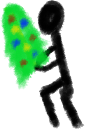
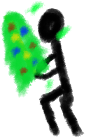
2.3.5

diff --git a/HellChristmasNightmare/index.html b/HellChristmasNightmare/index.html
@@ -33,13 +33,19 @@
     function loadCharacters(){const unlocked=[1];try{const progress=JSON.parse(localStorage.getItem("sixtySevenProgress")||"{}");for(const [character,status] of Object.entries(progress.characters||{}))if(status=== "UNLOCKED")unlocked.push(Number(character))}catch(error){console.warn("Saved characters could not be read.",error)}unlockedNumbers=getSelectedPlayableNumbers(unlocked);if(!unlockedNumbers.includes(number))number=unlockedNumbers[0]||1}
     function setNumber(character){if(!unlockedNumbers.includes(character))return;number=character;draw()}
     function drawHealth(){health.replaceChildren();for(let i=0;i<getStartingHealth();i++){const heart=document.createElement("img");heart.className="heart";heart.src="../Media/Images/Heart.png";heart.alt=i<playerHealth?"Heart":"Empty heart";heart.style.opacity=i<playerHealth?"1":".2";health.appendChild(heart)}}
-    function playerFrame(){if(number===-1)return keys.left||keys.right?"Walk":"Still";if(number===3)return !playerGrounded?(playerVelocityY>0?"Jump":"Fall"):keys.left||keys.right?"Walk":"Still";if(number===4)return !playerGrounded?(playerVelocityY>0?"Jump":"Sweep"):playerAttacking?"Sweep":keys.left||keys.right?"WalkF1":"Still";if(number===5)return keys.left||keys.right?"Walk":playerAttacking?"StillAlt":"Still";return !playerGrounded?(playerVelocityY>0?"Jump":"Fall"):playerAttacking?"SwingF1":keys.left||keys.right?"WalkF1":"Still"}
-    function draw(){player.src=playerSpritePath(number,playerFrame());player.style.left=`${playerX}px`;player.style.bottom=`${78+playerY}px`;player.style.transform=`translateX(-50%) scale(.56) scaleX(${-facing})`;boss.style.left=`${bossX}px`;boss.style.transform=`translateX(-50%) scaleX(${bossX<playerX?-1:1})`}
+    function playerFrame(){
+      if(number===-1)return playerAttacking?"Charge":keys.left||keys.right?"Walk":"Still";
+      if(number===3)return playerAttacking?"Swing":!playerGrounded?(playerVelocityY>0?"Jump":"Fall"):keys.left||keys.right?"Walk":"Still";
+      if(number===4)return playerAttacking?"Sweep":!playerGrounded?(playerVelocityY>0?"Jump":"Sweep"):keys.left||keys.right?"WalkF1":"Still";
+      if(number===5)return !playerGrounded?"Still":playerAttacking?"StillAlt":keys.left||keys.right?"Walk":"Still";
+      return playerAttacking?(number===1||number===2?"SwingF1":"Still") : (!playerGrounded?(playerVelocityY>0?"Jump":"Fall"):keys.left||keys.right?"WalkF1":"Still");
+    }
+    function draw(){player.src=playerSpritePath(number,playerFrame());player.style.left=`${playerX}px`;player.style.bottom=`${78+playerY}px`;player.style.transform=`translateX(-50%) scale(.56) scaleX(${-facing})`;boss.style.left=`${bossX}px`;boss.style.transform="translateX(-50%)"}
     function damagePlayer(){if(finished||damageCooldown>0)return;damageCooldown=.7;playerHealth--;drawHealth();if(playerHealth<=0){finished=true;message.textContent="DEFEATED"}}
     function unlockCharacter16(){try{const progress=JSON.parse(localStorage.getItem("sixtySevenProgress")||"{}");progress.characters=progress.characters||{};progress.characters["16"]="UNLOCKED";localStorage.setItem("sixtySevenProgress",JSON.stringify(progress))}catch(error){console.error("Could not unlock Character 16",error)}}
     function victory(){finished=true;unlockCharacter16();message.textContent="VICTORY — 16 UNLOCKED"}
     function beginAttack(){boss.src=asset+(attack==="PRESENT"?"Present.png":"DEMON.png");meteor.hidden=attack!=="METEOR";meteor.style.transform="translateX(-50%)";if(attack==="PRESENT")boss.style.transform="translateX(-50%) scale(.1) scaleX(1)";if(attack==="METEOR"){meteor.style.left=`${playerX}px`;meteor.style.bottom="520px"}}
-    function loop(now){const dt=Math.min((now-last)/1000,.04);last=now;if(!finished){const movement=(keys.right?1:0)-(keys.left?1:0);playerX+=movement*300*dt;if(movement)facing=movement;playerX=Math.max(22,Math.min(game.clientWidth-22,playerX));phaseTimer-=dt;damageCooldown=Math.max(0,damageCooldown-dt);attackCooldown=Math.max(0,attackCooldown-dt);if(!playerGrounded){playerVelocityY-=1900*dt;playerY+=playerVelocityY*dt;if(playerY<=0){playerY=0;playerVelocityY=0;playerGrounded=true}}if(phase=== "DELAY"&&phaseTimer<=0){phase="STILL";phaseTimer=5}else if(phase=== "STILL"&&phaseTimer<=0){attack=Math.random()<.5?"PRESENT":"METEOR";boss.src=asset+"DEMON.png";phase="READY";phaseTimer=1}else if(phase=== "READY"&&phaseTimer<=0){phase="ATTACK";phaseTimer=2;beginAttack()}else if(phase=== "ATTACK"&&phaseTimer<=0){meteor.hidden=true;attack="";boss.src=asset+"DEMON.png";boss.style.transform=`translateX(-50%) scaleX(${bossX<playerX?-1:1})`;phase="STILL";phaseTimer=5}if(phase=== "ATTACK"&&attack==="METEOR"){meteor.style.bottom=`${Math.max(78,parseFloat(meteor.style.bottom)-260*dt)}px`;if(parseFloat(meteor.style.bottom)<=78){meteor.hidden=true;if(Math.abs(parseFloat(meteor.style.left)-playerX)<70)damagePlayer()}}draw();requestAnimationFrame(loop)}}
+    function loop(now){const dt=Math.min((now-last)/1000,.04);last=now;if(!finished){const movement=(keys.right?1:0)-(keys.left?1:0);playerX+=movement*300*dt;if(movement)facing=movement;playerX=Math.max(22,Math.min(game.clientWidth-22,playerX));phaseTimer-=dt;damageCooldown=Math.max(0,damageCooldown-dt);attackCooldown=Math.max(0,attackCooldown-dt);if(!playerGrounded){playerVelocityY-=1900*dt;playerY+=playerVelocityY*dt;if(playerY<=0){playerY=0;playerVelocityY=0;playerGrounded=true}}if(phase=== "DELAY"&&phaseTimer<=0){phase="STILL";phaseTimer=5}else if(phase=== "STILL"&&phaseTimer<=0){attack=Math.random()<.5?"PRESENT":"METEOR";boss.src=asset+"DEMON.png";phase="READY";phaseTimer=1}else if(phase=== "READY"&&phaseTimer<=0){phase="ATTACK";phaseTimer=2;beginAttack()}else if(phase=== "ATTACK"&&phaseTimer<=0){meteor.hidden=true;attack="";boss.src=asset+"DEMON.png";boss.style.transform="translateX(-50%)";phase="STILL";phaseTimer=5}if(phase=== "ATTACK"&&attack==="METEOR"){meteor.style.bottom=`${Math.max(78,parseFloat(meteor.style.bottom)-260*dt)}px`;if(parseFloat(meteor.style.bottom)<=78){meteor.hidden=true;if(Math.abs(parseFloat(meteor.style.left)-playerX)<70)damagePlayer()}}draw();requestAnimationFrame(loop)}}
     addEventListener("keydown",e=>{const key=e.key.toLowerCase();if(key===keyBindings.left||key=== "arrowleft")keys.left=true;if(key===keyBindings.right||key=== "arrowright")keys.right=true;if((key===keyBindings.jump||key=== "arrowup")&&!e.repeat&&playerGrounded){playerVelocityY=798;playerGrounded=false}if(key===keyBindings.previous&&!e.repeat){const index=unlockedNumbers.indexOf(number);setNumber(unlockedNumbers[(index-1+unlockedNumbers.length)%unlockedNumbers.length])}if(key===keyBindings.next&&!e.repeat){const index=unlockedNumbers.indexOf(number);setNumber(unlockedNumbers[(index+1)%unlockedNumbers.length])}if(key===keyBindings.attack&&!e.repeat&&attackCooldown<=0){attackCooldown=.36;playerAttacking=true;if(Math.abs(playerX-bossX)<110){bossHealth=Math.max(0,bossHealth-1);if(bossHealth===0)victory()}setTimeout(()=>playerAttacking=false,180);draw()}});
     addEventListener("keyup",e=>{const key=e.key.toLowerCase();if(key===keyBindings.left||key==="arrowleft")keys.left=false;if(key===keyBindings.right||key==="arrowright")keys.right=false});
     loadCharacters();drawHealth();bossX=game.clientWidth-140;draw();requestAnimationFrame(loop);

diff --git a/CaseChristmasNightmare/index.html b/CaseChristmasNightmare/index.html
@@ -39,8 +39,14 @@
     function loadCharacters(){const unlocked=[1];try{const progress=JSON.parse(localStorage.getItem("sixtySevenProgress")||"{}");for(const [character,status] of Object.entries(progress.characters||{}))if(status=== "UNLOCKED")unlocked.push(Number(character))}catch(error){console.warn("Saved characters could not be read.",error)}unlockedNumbers=getSelectedPlayableNumbers(unlocked);if(!unlockedNumbers.includes(number))number=unlockedNumbers[0]||1}
     function setNumber(character){if(!unlockedNumbers.includes(character))return;number=character;draw()}
     function drawHealth(){health.replaceChildren();for(let i=0;i<getStartingHealth();i++){const heart=document.createElement("img");heart.className="heart";heart.src="../Media/Images/Heart.png";heart.alt=i<playerHealth?"Heart":"Empty heart";heart.style.opacity=i<playerHealth?"1":".2";health.appendChild(heart)}}
-    function playerFrame(){if(number===-1)return keys.left||keys.right?"Walk":"Still";if(number===3)return !playerGrounded?(playerVelocityY>0?"Jump":"Fall"):keys.left||keys.right?"Walk":"Still";if(number===4)return !playerGrounded?(playerVelocityY>0?"Jump":"Sweep"):playerAttacking?"Sweep":keys.left||keys.right?"WalkF1":"Still";if(number===5)return keys.left||keys.right?(playerVelocityY!==0?"Still":"Walk"):(playerAttacking?"StillAlt":"Still");return !playerGrounded?(playerVelocityY>0?"Jump":"Fall"):playerAttacking?(number===1?"SwingF1":"SwingF1"):keys.left||keys.right?"WalkF1":"Still"}
-    function draw(){player.src=playerSpritePath(number,playerFrame());player.style.left=`${playerX}px`;player.style.bottom=`${78+playerY}px`;player.style.transform=`translateX(-50%) scale(.56) scaleX(${-facing})`;boss.style.left=`${bossX}px`;boss.style.transform=`translateX(-50%) scaleX(${bossX<playerX?-1:1})`}
+    function playerFrame(){
+      if(number===-1)return playerAttacking?"Charge":keys.left||keys.right?"Walk":"Still";
+      if(number===3)return playerAttacking?"Swing":!playerGrounded?(playerVelocityY>0?"Jump":"Fall"):keys.left||keys.right?"Walk":"Still";
+      if(number===4)return playerAttacking?"Sweep":!playerGrounded?(playerVelocityY>0?"Jump":"Sweep"):keys.left||keys.right?"WalkF1":"Still";
+      if(number===5)return !playerGrounded?"Still":playerAttacking?"StillAlt":keys.left||keys.right?"Walk":"Still";
+      return playerAttacking?(number===1||number===2?"SwingF1":"Still") : (!playerGrounded?(playerVelocityY>0?"Jump":"Fall"):keys.left||keys.right?"WalkF1":"Still");
+    }
+    function draw(){player.src=playerSpritePath(number,playerFrame());player.style.left=`${playerX}px`;player.style.bottom=`${78+playerY}px`;player.style.transform=`translateX(-50%) scale(.56) scaleX(${-facing})`;boss.style.left=`${bossX}px`;boss.style.transform="translateX(-50%)"}
     function hurtPlayer(){if(finished||damageCooldown>0)return;damageCooldown=.7;playerHealth--;drawHealth();if(playerHealth<=0){finished=true;message.textContent="DEFEATED"}}
     function unlockCharacter16(){try{const progress=JSON.parse(localStorage.getItem("sixtySevenProgress")||"{}");progress.characters=progress.characters||{};progress.characters["16"]="UNLOCKED";localStorage.setItem("sixtySevenProgress",JSON.stringify(progress))}catch(error){console.error("Could not unlock Character 16",error)}}
     function victory(){finished=true;unlockCharacter16();message.textContent="VICTORY — 16 UNLOCKED"}
@@ -50,7 +56,7 @@
     function beginAttack(){
       clearAttackObjects();boss.src=asset+({BLUE:"Still.png",RED:"Red.png",YELLOW:"Yellow.png",PURPLE:"Travel.png"}[activeTell]);
       if(activeTell==="YELLOW"){
-        const sled=createAttackImage("Sled.png");sled.style.left=`${bossX}px`;sled.style.bottom="78px";sled.style.transform=`translateX(-50%) scale(.5)`;
+        const sled=createAttackImage("Sled.png");sled.x=bossX;sled.direction=playerX<bossX?-1:1;sled.style.left=`${bossX}px`;sled.style.bottom="78px";sled.style.transform=`translateX(-50%) scale(.5) scaleX(${sled.direction===1?-1:1})`;
       }else if(activeTell==="BLUE"){
         for(let index=0;index<2;index++){
           const present=createAttackImage("Present.png");present.x=bossX+(index===0?-35:35);present.elapsed=0;present.targetX=Math.max(120,Math.min(game.clientWidth-120,playerX+(index===0?-180:180)));present.startY=330;present.startX=present.x;present.style.left=`${present.x}px`;present.style.bottom=`${present.startY}px`;present.style.transform="translateX(-50%) scale(.1)";
@@ -73,11 +79,11 @@
         else if(phase=== "ATTACK"&&phaseTimer<=0)endAttack();
         if(phase=== "ATTACK"){
           if(activeTell==="YELLOW"){
-            const sled=attackObjects[0];const direction=bossX<=playerX?1:-1;sled.x=(sled.x||bossX)+direction*620*dt;sled.style.left=`${sled.x}px`;
-            if(Math.abs(sled.x-playerX)<120&&parseFloat(sled.style.bottom)<130)hurtPlayer();
+            const sled=attackObjects[0];sled.x=(sled.x||bossX)+sled.direction*620*dt;sled.style.left=`${sled.x}px`;
+            if(Math.abs(sled.x-playerX)<120)hurtPlayer();
           }else if(activeTell==="BLUE"){
             for(const present of attackObjects){present.elapsed+=dt;const progress=Math.min(1,present.elapsed/1.5);const x=present.startX+(present.targetX-present.startX)*progress;const height=78+(present.startY-78)*Math.sin(progress*Math.PI)+(present.startY-78)*(1-progress);present.style.left=`${x}px`;present.style.bottom=`${height}px`;
-              if(progress>=1){present.src=asset+"Boom.png";present.style.transform="translateX(-50%) scale(.45)";if(Math.abs(x-playerX)<90)hurtPlayer();}
+              if(progress>=1){present.src=asset+"Boom.png";present.style.bottom="78px";present.style.transform="translateX(-50%) scale(.45)";if(Math.abs(x-playerX)<90)hurtPlayer();}
             }
           }else if(activeTell==="RED"){
             meteor.style.bottom=`${Math.max(78,parseFloat(meteor.style.bottom)-520*dt)}px`;
